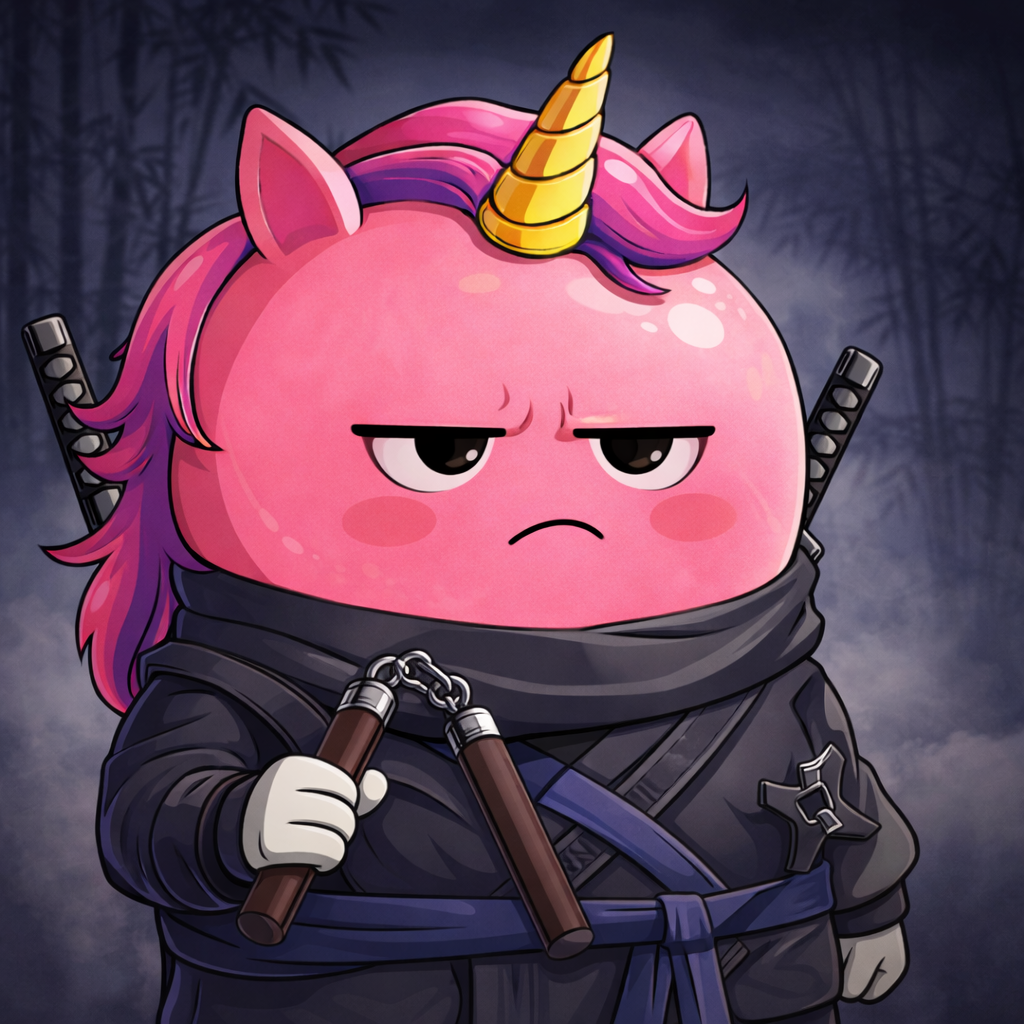
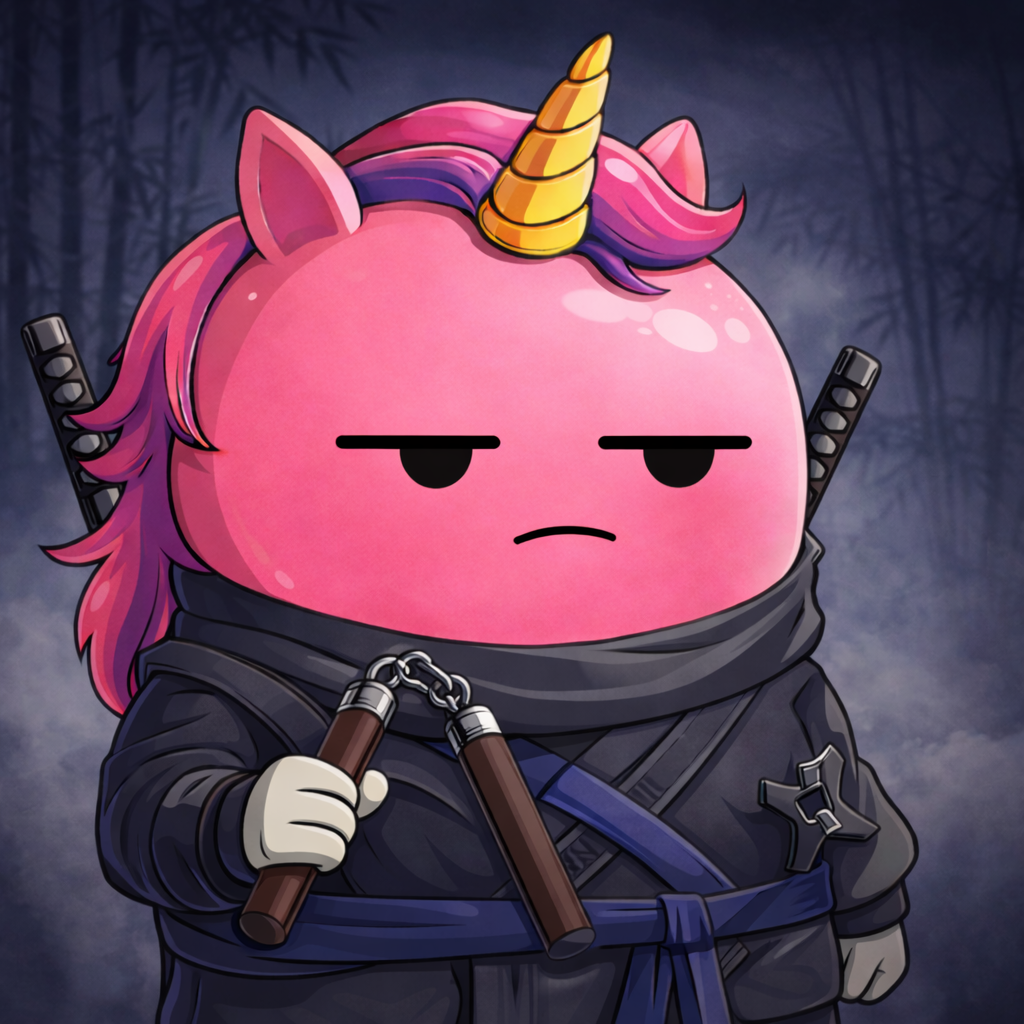
feat: Add framer-motion and animate strategy UI
Install framer-motion and update StrategyRecommendation to a client component with interactive analysis states. Adds simulated analysis logs, Analyze button, and animated transitions (AnimatePresence/motion) for log streaming and the final recommendation UI. Also updates agent images and the lockfile to reflect the new dependency.

diff --git a/src/components/pages/(main)/PoolDetail/StrategyRecommendation.tsx b/src/components/pages/(main)/PoolDetail/StrategyRecommendation.tsx
@@ -1,14 +1,54 @@
+"use client";
+
+import { useState, useEffect } from "react";
 import Image from "next/image";
 import { FaTrophy, FaStar } from "react-icons/fa";
+import { motion, AnimatePresence } from "framer-motion";
 import type { Agent } from "@/types";
 
 interface StrategyRecommendationProps {
   selectedAgent: Agent;
 }
 
+const analysisLogs = [
+  "Initializing AI agent...",
+  "Analyzing market volatility...",
+  "Evaluating historical price movements...",
+  "Identifying support and resistance levels...",
+  "Calculating optimal liquidity range...",
+  "Assessing risk parameters...",
+  "Simulating fee generation potential...",
+  "Generating strategy recommendation...",
+];
+
 export function StrategyRecommendation({
   selectedAgent,
 }: StrategyRecommendationProps) {
+  const [isAnalyzing, setIsAnalyzing] = useState(false);
+  const [isAnalyzed, setIsAnalyzed] = useState(false);
+  const [visibleLogs, setVisibleLogs] = useState<string[]>([]);
+
+  useEffect(() => {
+    if (isAnalyzing) {
+      setVisibleLogs([]);
+      analysisLogs.forEach((log, index) => {
+        setTimeout(() => {
+          setVisibleLogs((prev) => [...prev, log]);
+          if (index === analysisLogs.length - 1) {
+            setTimeout(() => {
+              setIsAnalyzing(false);
+              setIsAnalyzed(true);
+            }, 500);
+          }
+        }, index * 400);
+      });
+    }
+  }, [isAnalyzing]);
+
+  const handleAnalyze = () => {
+    setIsAnalyzing(true);
+  };
+
   return (
     <div className="bg-surface border border-border-main rounded-xl p-5 shadow-sm">
       <div className="mb-4">
@@ -16,7 +56,9 @@ export function StrategyRecommendation({
           AI Strategy Recommendation
         </h2>
         <p className="text-text-secondary text-sm">
-          You classified as Balanced risk, here's our recommended CLMM strategy
+          {isAnalyzed
+            ? "You classified as Balanced risk, here's our recommended CLMM strategy"
+            : "Let AI analyze the optimal CLMM strategy for your liquidity position"}
         </p>
       </div>
 
@@ -92,85 +134,172 @@ export function StrategyRecommendation({
           </div>
 
           <div className="flex-1">
-            <div className="mb-4">
-              <h3 className="text-text-main text-base font-semibold mb-1">
-                Balanced Range Strategy
-              </h3>
-              <p className="text-text-secondary text-xs">
-                AI-optimized liquidity range based on market analysis
-              </p>
-            </div>
+            {!isAnalyzed && !isAnalyzing ? (
+              <div className="flex items-center justify-center h-full">
+                <div className="text-center max-w-md">
+                  <h3 className="text-text-main text-lg font-semibold mb-2">
+                    Ready to Analyze
+                  </h3>
+                  <p className="text-text-secondary text-sm mb-6">
+                    Click the button below to let the AI agent analyze market
+                    conditions and recommend the optimal liquidity range for your
+                    position.
+                  </p>
+                  <button
+                    onClick={handleAnalyze}
+                    className="bg-brand hover:bg-brand-hover text-white py-3 px-8 rounded-full font-semibold text-sm transition-colors cursor-pointer"
+                  >
+                    Analyze Strategy
+                  </button>
+                </div>
+              </div>
+            ) : isAnalyzing ? (
+              <div className="flex flex-col gap-2">
+                <h3 className="text-text-main text-base font-semibold mb-2">
+                  Analyzing Strategy
+                </h3>
+                <div className="space-y-2">
+                  <AnimatePresence>
+                    {visibleLogs.map((log, index) => (
+                      <motion.div
+                        key={index}
+                        initial={{ opacity: 0, x: -20 }}
+                        animate={{ opacity: 1, x: 0 }}
+                        transition={{ duration: 0.3 }}
+                        className="bg-white border border-border-main rounded-lg p-3"
+                      >
+                        <div className="flex items-start gap-2">
+                          <div className="w-1.5 h-1.5 rounded-full bg-brand mt-1.5 flex-shrink-0" />
+                          <p className="text-text-secondary text-xs">{log}</p>
+                        </div>
+                      </motion.div>
+                    ))}
+                  </AnimatePresence>
+                </div>
+              </div>
+            ) : (
+              <motion.div
+                initial={{ opacity: 0 }}
+                animate={{ opacity: 1 }}
+                transition={{ duration: 0.5 }}
+              >
+                <motion.div
+                  initial={{ opacity: 0, y: 20 }}
+                  animate={{ opacity: 1, y: 0 }}
+                  transition={{ duration: 0.4, delay: 0.1 }}
+                  className="mb-4"
+                >
+                  <h3 className="text-text-main text-base font-semibold mb-1">
+                    Balanced Range Strategy
+                  </h3>
+                  <p className="text-text-secondary text-xs">
+                    AI-optimized liquidity range based on market analysis
+                  </p>
+                </motion.div>
 
-            <div className="grid grid-cols-3 gap-4 mb-4">
-              <div>
-                <p className="text-text-secondary text-xs mb-1">Lower Range</p>
-                <p className="text-text-main text-base font-semibold">
-                  $2,845.20
-                </p>
-              </div>
-              <div>
-                <p className="text-text-secondary text-xs mb-1">Current Price</p>
-                <p className="text-text-main text-base font-semibold">
-                  $3,124.50
-                </p>
-              </div>
-              <div>
-                <p className="text-text-secondary text-xs mb-1">Upper Range</p>
-                <p className="text-text-main text-base font-semibold">
-                  $3,450.80
-                </p>
-              </div>
-            </div>
+                <motion.div
+                  initial={{ opacity: 0, y: 20 }}
+                  animate={{ opacity: 1, y: 0 }}
+                  transition={{ duration: 0.4, delay: 0.2 }}
+                  className="grid grid-cols-3 gap-4 mb-4"
+                >
+                  <div>
+                    <p className="text-text-secondary text-xs mb-1">
+                      Lower Range
+                    </p>
+                    <p className="text-text-main text-base font-semibold">
+                      $2,845.20
+                    </p>
+                  </div>
+                  <div>
+                    <p className="text-text-secondary text-xs mb-1">
+                      Current Price
+                    </p>
+                    <p className="text-text-main text-base font-semibold">
+                      $3,124.50
+                    </p>
+                  </div>
+                  <div>
+                    <p className="text-text-secondary text-xs mb-1">
+                      Upper Range
+                    </p>
+                    <p className="text-text-main text-base font-semibold">
+                      $3,450.80
+                    </p>
+                  </div>
+                </motion.div>
 
-            <div className="grid grid-cols-3 gap-4 mb-4">
-              <div>
-                <p className="text-text-secondary text-xs mb-1">Estimated APY</p>
-                <p className="text-brand text-base font-semibold">24.5%</p>
-              </div>
-              <div>
-                <p className="text-text-secondary text-xs mb-1">
-                  Estimated Fees
-                </p>
-                <p className="text-text-main text-base font-semibold">
-                  $125.80/day
-                </p>
-              </div>
-              <div>
-                <p className="text-text-secondary text-xs mb-1">Risk Level</p>
-                <p className="text-text-main text-base font-semibold">
-                  Balanced
-                </p>
-              </div>
-            </div>
+                <motion.div
+                  initial={{ opacity: 0, y: 20 }}
+                  animate={{ opacity: 1, y: 0 }}
+                  transition={{ duration: 0.4, delay: 0.3 }}
+                  className="grid grid-cols-3 gap-4 mb-4"
+                >
+                  <div>
+                    <p className="text-text-secondary text-xs mb-1">
+                      Estimated APY
+                    </p>
+                    <p className="text-brand text-base font-semibold">24.5%</p>
+                  </div>
+                  <div>
+                    <p className="text-text-secondary text-xs mb-1">
+                      Estimated Fees
+                    </p>
+                    <p className="text-text-main text-base font-semibold">
+                      $125.80/day
+                    </p>
+                  </div>
+                  <div>
+                    <p className="text-text-secondary text-xs mb-1">
+                      Risk Level
+                    </p>
+                    <p className="text-text-main text-base font-semibold">
+                      Balanced
+                    </p>
+                  </div>
+                </motion.div>
 
-            <div className="bg-white border border-border-main rounded-lg p-3 mb-4">
-              <h4 className="text-text-main font-semibold text-sm mb-2">
-                AI Analysis Summary
-              </h4>
-              <p className="text-text-secondary text-xs leading-relaxed">
-                Based on recent market volatility and trading patterns, this
-                range provides optimal balance between fee capture and
-                impermanent loss risk. The agent has analyzed historical price
-                movements over the past 30 days, identifying key support and
-                resistance levels. Current market conditions suggest moderate
-                volatility with a bullish trend, making this range ideal for
-                maximizing fee generation while minimizing exposure to significant
-                price swings. The agent predicts 85% in-range time over the next 7
-                days, with an estimated daily volume of $2.4M providing consistent
-                fee opportunities. Risk assessment indicates low probability of
-                extreme price movements beyond the specified range during this
-                period.  resistance levels at $2,800 and $3,500 respectively. Current                                                                  
-      market conditions suggest moderate volatility with a bullish trend,                                                            
-      making this range ideal for maximizing fee generation while                                                                   
-      minimizing exposure to significant price swings. The agent predicts                                                           
-                    volume of $2.4M providing consistent fee opportunities. 
-                
-              </p>
-            </div>
+                <motion.div
+                  initial={{ opacity: 0, y: 20 }}
+                  animate={{ opacity: 1, y: 0 }}
+                  transition={{ duration: 0.4, delay: 0.4 }}
+                  className="bg-white border border-border-main rounded-lg p-3 mb-4"
+                >
+                  <h4 className="text-text-main font-semibold text-sm mb-2">
+                    AI Analysis Summary
+                  </h4>
+                  <p className="text-text-secondary text-xs leading-relaxed">
+                    Based on recent market volatility and trading patterns, this
+                    range provides optimal balance between fee capture and
+                    impermanent loss risk. The agent has analyzed historical
+                    price movements over the past 30 days, identifying key
+                    support and resistance levels at $2,800 and $3,500
+                    respectively. Current market conditions suggest moderate
+                    volatility with a bullish trend, making this range ideal for
+                    maximizing fee generation while minimizing exposure to
+                    significant price swings. The agent predicts 85% in-range
+                    time over the next 7 days, with an estimated daily volume of
+                    $2.4M providing consistent fee opportunities. Risk assessment
+                    indicates low probability of extreme price movements beyond
+                    the specified range during this period. The recommended
+                    position size is optimized for gas efficiency and capital
+                    utilization, ensuring maximum returns while maintaining
+                    flexibility for market adjustments. Historical backtesting
+                    shows this strategy would have generated 28% APY over similar
+                    market conditions in the past quarter.
+                  </p>
+                </motion.div>
 
-            <button className="w-full bg-brand hover:bg-brand-hover text-white py-3 rounded-full font-semibold text-sm transition-colors cursor-pointer">
-              Create Position
-            </button>
+                <motion.button
+                  initial={{ opacity: 0, y: 20 }}
+                  animate={{ opacity: 1, y: 0 }}
+                  transition={{ duration: 0.4, delay: 0.5 }}
+                  className="w-full bg-brand hover:bg-brand-hover text-white py-3 rounded-full font-semibold text-sm transition-colors cursor-pointer"
+                >
+                  Create Position
+                </motion.button>
+              </motion.div>
+            )}
           </div>
         </div>
       </div>
